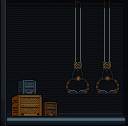
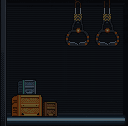
Cargo 90_0 grows through its back wall, not its clamp arms
Jon on the tall-mouth interiors: cargo 90_0's two clamps hung on long thin
poles -- the 48 added rows had gone into the arms. Its rows now go into the
back wall only, column by column (mouth.extend_around_objects): each column
cut where its own wall ribs run clear above and below with nothing in front
(a pixel far from its row's commonest colour is a thing in front), the
ribs' 2-row block copied in; columns may cut at different rows because the
ribs repeat every 2 and 48 is a multiple. The clamps keep their arm length
from the ceiling; the wall grows between their jaws and the crates.

The other cargo bays: 170_0 has no clamps; 130_0's crate hangs on its chain
over the floor crates and 130_1's clamp grips its crate, so no wall runs
between them and their chain/arm lengthen with any extension -- both keep
the cut Jon passed.

diff --git a/tkg/art/stations/mouth.py b/tkg/art/stations/mouth.py
@@ -116,3 +116,68 @@ def extend_picture(img, lo=None, hi=None):
     c, p, e = best
     out = np.concatenate([img[:c]] + [img[c - p:c]] * (TALL // p) + [img[c:]], 0)
     return out, best
+
+
+def cut_columns(img, cuts, period, tall=TALL):
+    """`img` made `tall` rows taller, each column at its own cut row, its `period`-row block above the cut copied in"""
+    H, W = img.shape[:2]
+    out = np.zeros((H + tall,) + img.shape[1:], img.dtype)
+    for x in range(W):
+        c = int(cuts[x])
+        col = img[:, x]
+        out[:c, x] = col[:c]
+        out[c:c + tall, x] = np.concatenate([col[c - period:c]] * (tall // period), 0)
+        out[c + tall:, x] = col[c:]
+    return out
+
+
+def extend_around_objects(img, period, tall=TALL, lo=None, hi=None, step=1.0):
+    """an interior made `tall` rows taller through its BACK WALL only: each column cut at a row of its own where the
+    wall (the dark, unsaturated ribs or bricks) runs `period` rows above and below with nothing in front of it, the
+    wall's own `period`-row block copied in -- so clamps keep their arms, crates their height, and the wall grows
+    between the clamp jaws and the floor. Neighbouring columns may cut at different rows: the wall repeats every
+    `period` rows and `tall` is a multiple of it, so the bricks carry on across. Returns (picture, cuts)."""
+    a = img.astype(float)
+    H, W = a.shape[:2]
+    # (the wall runs across in rows -- ribs or courses of brick -- so a thing in front of it is a pixel far from its
+    # own row's commonest colour; the bricks' mortar is matched by the row's own spread)
+    med = np.median(a, 1, keepdims=True)
+    dev = np.abs(a - med).sum(-1)
+    spread = np.median(dev, 1, keepdims=True)
+    obj = dev > (spread * 2.5 + 24)
+    # (grow the things a little, so a cut never grazes an outline)
+    o2 = obj.copy()
+    for dy in (-2, -1, 1, 2):
+        o2 |= np.roll(obj, dy, 0)
+    for dx in (-1, 1):
+        o2 |= np.roll(obj, dx, 1)
+    lo = lo if lo is not None else period + 6
+    hi = hi if hi is not None else H - period - 6
+    rows = list(range(lo, hi))
+    n = len(rows)
+    cost = np.zeros((W, n))
+    for x in range(W):
+        free = []
+        for i, c in enumerate(rows):
+            e = float(np.abs(a[c - period:c, x] - a[c:c + period, x]).mean())
+            blocked = bool(o2[c - period:c + period, x].any())
+            cost[x, i] = e + (1000.0 if blocked else 0.0)
+            free.append(not blocked)
+        if not any(free):
+            # (a column that is all frame or all object: cut where it repeats best)
+            cost[x] = np.where(cost[x] >= 1000.0, cost[x] - 1000.0, cost[x])
+    acc = cost[0].copy()
+    back = np.zeros((W, n), int)
+    idx = np.arange(n)
+    for x in range(1, W):
+        tr = acc[None, :] + step * np.abs(idx[:, None] - idx[None, :])
+        back[x] = tr.argmin(1)
+        acc = cost[x] + tr.min(1)
+    sel = np.zeros(W, int)
+    sel[-1] = int(acc.argmin())
+    for x in range(W - 1, 0, -1):
+        sel[x - 1] = back[x, sel[x]]
+    cuts = np.array([rows[i] for i in sel])
+    out = cut_columns(img, cuts, period, tall)
+    blocked = int(sum(cost[x, sel[x]] >= 1000.0 for x in range(W)))
+    return out, cuts, blocked

diff --git a/tkg/art/stations/sides.py b/tkg/art/stations/sides.py
@@ -474,6 +474,13 @@ def build(plate, kind, rule="dark", keep=(), hull=None):
     return out, data, dict(al=al, removed=removed, lampmask=lampmask, rim=rim, te=te, depth=depth, base=base)
 
 
+# interiors made taller through their back wall only, column by column (`mouth.extend_around_objects`), with the
+# wall's own repeat: cargo 90_0's two clamps hang free, so its wall grows between their jaws and the floor. (Cargo
+# 130_0's crate hangs on its chain over the floor crates and 130_1's clamp grips its crate: no wall runs between them,
+# so those keep the one cut Jon passed.)
+WALL_ONLY = {"cargo_90_0": 2}
+
+
 def interiors():
     """each kept interior made TALL rows taller (the new recess) at its own cleanest cut: a block of rows that
     genuinely repeats (`mouth.extend_picture`, found on the lit picture, the same cut made in the flat one)"""
@@ -481,9 +488,17 @@ def interiors():
     for k in INTERIORS:
         flat0 = np.asarray(Image.open(os.path.join(SRC, "interiors", k + "_flat.png")).convert("RGB"))
         lit0 = np.asarray(Image.open(os.path.join(SRC, "interiors", k + "_lit.png")).convert("RGB"))
-        lit, (c, pp, e) = mouth.extend_picture(lit0)
-        flat = np.concatenate([flat0[:c]] + [flat0[c - pp:c]] * (mouth.TALL // pp) + [flat0[c:]], 0).astype(float)
-        report[k] = dict(cut=int(c), period=int(pp), mismatch=round(float(e), 2))
+        if k in WALL_ONLY:
+            # (its clamps hang free of anything below them: the rows go into its back wall, between the jaws and
+            # the floor, column by column, never into the clamp arms -- Jon: "the clamps hang on long thin poles")
+            pp = WALL_ONLY[k]
+            lit, cuts, _ = mouth.extend_around_objects(lit0, pp)
+            flat = mouth.cut_columns(flat0, cuts, pp).astype(float)
+            report[k] = dict(cut=[int(cuts.min()), int(cuts.max())], period=int(pp), wall_only=True)
+        else:
+            lit, (c, pp, e) = mouth.extend_picture(lit0)
+            flat = np.concatenate([flat0[:c]] + [flat0[c - pp:c]] * (mouth.TALL // pp) + [flat0[c:]], 0).astype(float)
+            report[k] = dict(cut=int(c), period=int(pp), mismatch=round(float(e), 2))
         d = os.path.join(HERE, "interiors", k)
         os.makedirs(d, exist_ok=True)
         a = np.full(flat.shape[:2] + (1,), 255, np.uint8)
